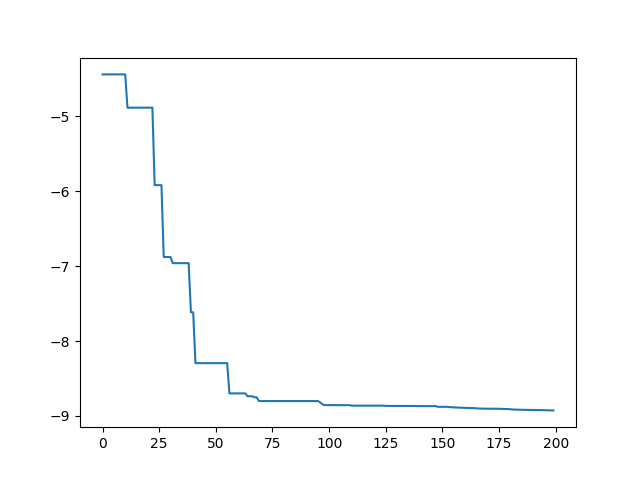
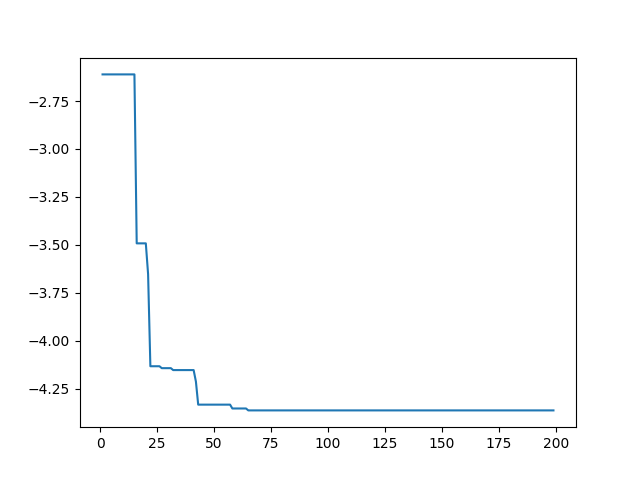
add new anwser

diff --git a/Q4.py b/Q4.py
@@ -190,16 +190,16 @@ def get_drone_search_bounds(drone_num):
 
     if drone_num == 1:  # FY1位置: (17800, 0, 1800) - 在导弹路径上，相对灵活
         # FY1可以各个方向移动，但偏向左移更容易拦截
-        custom_lb = [-140, -30, 0, 0]
+        custom_lb = [-140, 0, 0, 0]
         custom_ub = [140, 30, max_time, max_time]
     elif drone_num == 2:  # FY2位置: (12000, 1400, 1400) - 右上方
         # FY2需要向左下移动才能接近拦截路径，限制向右上移动
         custom_lb = [-140, -140, 0, 0]
-        custom_ub = [50, 50, max_time, max_time]  # 允许少量右上移动但主要向左下
+        custom_ub = [90, 0, max_time, max_time]  # 允许少量右上移动但主要向左下
     else:  # FY3位置: (6000, -3000, 700) - 右下方
         # FY3需要向左上移动才能接近拦截路径，限制向右下移动
-        custom_lb = [-140, -50, 0, 0]  # 允许少量向下但主要向上
-        custom_ub = [50, 140, max_time, max_time]
+        custom_lb = [-140, 0, 0, 0]  # 允许少量向下但主要向上
+        custom_ub = [90, 140, max_time, max_time]
 
     return custom_lb, custom_ub
 

diff --git a/Q3.py b/Q3.py
@@ -40,5 +40,5 @@ plt.plot(plot_data)
 
 plt.savefig("run/Q3_loss.png")
 
-# best_x is  [-1.39999941e+02  0.00000000e+00  7.98459982e-01  2.17994553e+00
-#   4.78722734e+00  0.00000000e+00  6.62879855e-03] best_y is [-8.92540866563213]
+# best_x is  [86.22910412  0.          0.          0.         13.44855362  0.
+#   0.96368346] best_y is [-4.36218109]

diff --git a/Q2.py b/Q2.py
@@ -29,4 +29,5 @@ print(-pso.gbest_y.item())
 plt.plot(pso.gbest_y_hist)
 plt.savefig("run/Q2_loss.png")
 
-# best_x is  [-70.40359495   0.           1.71457692] best_y is [-4.44587076676170]
+#  Vx, drop, bomb: [-70.09965038   0.           2.46359669]
+# 3.131565782891446
